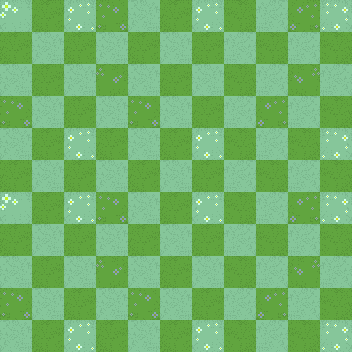
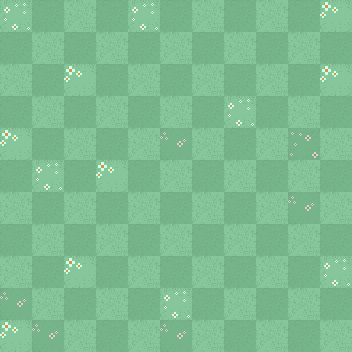
Thais - Update sprites

diff --git a/Assets/Sprites/Floor/Floor.tsx b/Assets/Sprites/Floor/Floor.tsx
@@ -1,0 +1,4 @@
+<?xml version="1.0" encoding="UTF-8"?>
+<tileset version="1.10" tiledversion="1.11.2" name="Floor" tilewidth="32" tileheight="32" tilecount="15" columns="15">
+ <image source="Floor.png" width="480" height="32"/>
+</tileset>
